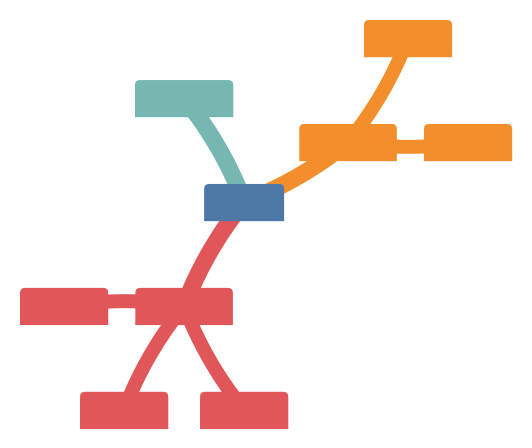
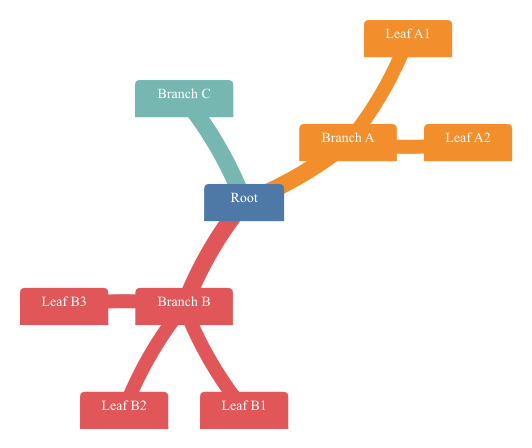
mindmap: use chardata text for plain labels so PNG rasterizes them
Regression in PR #83 — every mindmap label was wrapped in a <tspan>,
even plain-text ones. tdewolff/canvas's SVG→PNG rasterizer doesn't
pick up text whose content sits inside <tspan> children, so all
labels silently dropped from the PNG output (shapes rendered fine
because they're direct children of the translated <g>).

Fast-path: when the label is a single segment with no bold or italic,
emit a plain <text> with chardata content. Tspan is still used when
mixed formatting is actually present, accepting PNG limitations for
that case until a better solution exists.

Examples regenerated; labels now appear in both SVG and PNG outputs.

diff --git a/pkg/renderer/mindmap/renderer.go b/pkg/renderer/mindmap/renderer.go
@@ -385,6 +385,22 @@ func renderShapeElements(n *layoutNode, fontSize float64, th Theme) []any {
 	}
 
 	textStyle := fmt.Sprintf("fill:%s;font-size:%.0fpx", textCol, fontSize)
+	// Fast path: when the whole label is a single plain segment
+	// (no bold/italic), emit plain chardata instead of a <tspan>.
+	// The tdewolff/canvas PNG rasterizer doesn't render text whose
+	// content sits inside <tspan> children, so wrapping plain labels
+	// in tspan silently drops every mindmap label from the PNG.
+	if len(n.segments) == 1 && !n.segments[0].bold && !n.segments[0].italic {
+		children = append(children, &text{
+			X:        0,
+			Y:        0,
+			Anchor:   "middle",
+			Dominant: "central",
+			Style:    textStyle,
+			Content:  n.segments[0].text,
+		})
+		return children
+	}
 	var tspans []any
 	for _, seg := range n.segments {
 		segStyle := textStyle

diff --git a/pkg/renderer/mindmap/svg.go b/pkg/renderer/mindmap/svg.go
@@ -11,4 +11,5 @@ type (
 	circle   = svgutil.Circle
 	polygon  = svgutil.Polygon
 	group    = svgutil.Group
+	text     = svgutil.Text
 )
